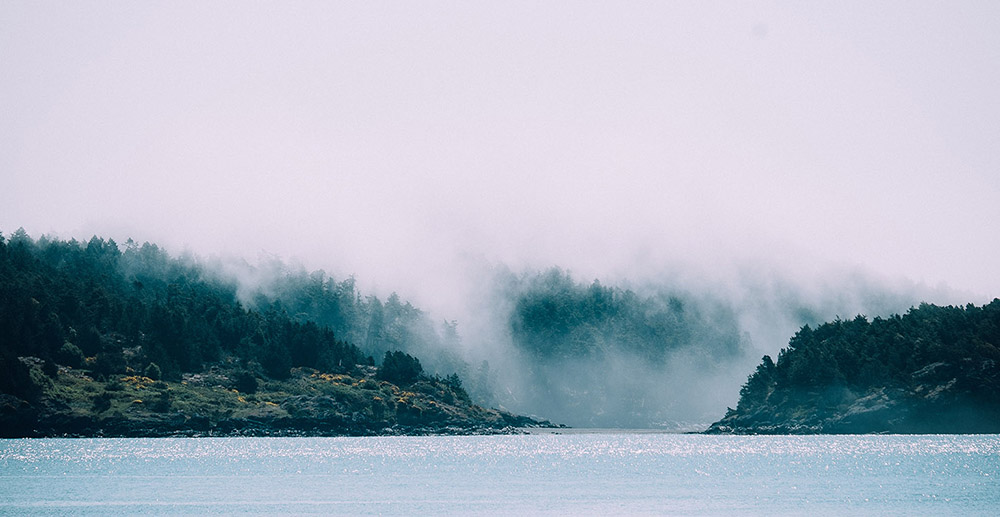
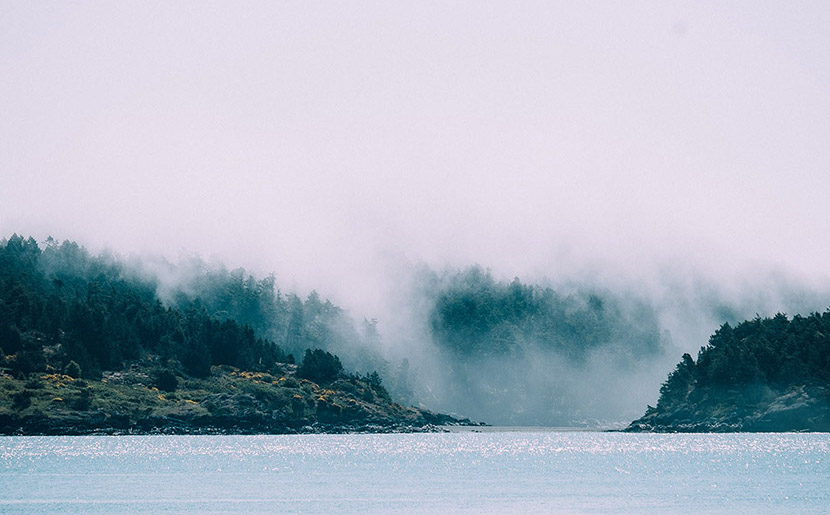
First implementation of events demo

Changed region(s): [[0.0, 0.435, 1.0, 1.0], [0.5422, 0.7456, 0.5723, 0.7767]]

diff --git a/src/views/Components/Sections/SectionCarousel.jsx b/src/views/Components/Sections/SectionCarousel.jsx
@@ -3,18 +3,54 @@ import React from "react";
 import Carousel from "react-slick";
 // @material-ui/core components
 import withStyles from "@material-ui/core/styles/withStyles";
-// @material-ui/icons
-import LocationOn from "@material-ui/icons/LocationOn";
 // core components
 import GridContainer from "components/Grid/GridContainer.jsx";
 import GridItem from "components/Grid/GridItem.jsx";
 import Card from "components/Card/Card.jsx";
+import Event from "components/Events/Event.js";
 import carouselStyle from "assets/jss/material-kit-react/views/componentsSections/carouselStyle.jsx";
 import image1 from "assets/img/bg.jpg";
 import image2 from "assets/img/bg2.jpg";
 import image3 from "assets/img/bg3.jpg";
 
 class SectionCarousel extends React.Component {
+
+  constructor(props) {
+    super(props);
+    this.state = {
+      numberOfEvents: 0
+    };
+  }
+
+  componentDidMount() {
+    fetch('https://www.eventbriteapi.com/v3/users/me/owned_events/?token=7QUBP6MTSUWMGLCOQUG6')
+    .then(results => {
+      return results.json();
+    }).then(data => {
+      this.setState({
+        numberOfEvents: data.pagination.object_count % 4
+      })
+    }).catch(e => {
+
+    })
+  }
+
+  getEvents() {
+
+    let events = [];
+
+    for (let i = 0; i <= this.state.numberOfEvents; i++) {
+      events.push(i);
+    }
+
+    let eventsList = events.map(i => {
+      return <Event index={i}/>
+    })
+
+    return eventsList;
+
+  }
+
   render() {
     const { classes } = this.props;
     const settings = {
@@ -32,45 +68,7 @@ class SectionCarousel extends React.Component {
             <GridItem xs={12} sm={12} md={8} className={classes.marginAuto}>
               <Card carousel>
                 <Carousel {...settings}>
-                  <div>
-                    <img
-                      src={image1}
-                      alt="First slide"
-                      className="slick-image"
-                    />
-                    <div className="slick-caption">
-                      <h4>
-                        <LocationOn className="slick-icons" />Yellowstone
-                        National Park, United States
-                      </h4>
-                    </div>
-                  </div>
-                  <div>
-                    <img
-                      src={image2}
-                      alt="Second slide"
-                      className="slick-image"
-                    />
-                    <div className="slick-caption">
-                      <h4>
-                        <LocationOn className="slick-icons" />Somewhere Beyond,
-                        United States
-                      </h4>
-                    </div>
-                  </div>
-                  <div>
-                    <img
-                      src={image3}
-                      alt="Third slide"
-                      className="slick-image"
-                    />
-                    <div className="slick-caption">
-                      <h4>
-                        <LocationOn className="slick-icons" />Yellowstone
-                        National Park, United States
-                      </h4>
-                    </div>
-                  </div>
+                  {this.getEvents()}
                 </Carousel>
               </Card>
             </GridItem>

diff --git a/src/components/Events/Event.js b/src/components/Events/Event.js
@@ -1,0 +1,58 @@
+import React, { Component } from 'react';
+// @material-ui/icons
+import { People, Code, Mic } from "@material-ui/icons";
+
+// default photo
+import defaultPhoto from "assets/img/bg.jpg";
+
+class Event extends Component {
+  constructor(props) {
+    super(props);
+    this.state = {
+      name: "More Events Coming Soon",
+      location: null,
+      time: null,
+      date: null,
+      pictureLink: defaultPhoto,
+      url: "https://blockolony.eventbrite.com"
+    };
+  }
+
+  componentDidMount() {
+    fetch('https://www.eventbriteapi.com/v3/users/me/owned_events/?token=7QUBP6MTSUWMGLCOQUG6')
+    .then(results => {
+      return results.json();
+    }).then(data => {
+      let event = data.events[this.props.index];
+      this.setState({
+        name: event.name.text,
+        url: event.url,
+        pictureLink: event.logo.original.url
+      })
+    }).catch(e => {
+
+    })
+  }
+
+  render() {
+    return(
+      <div>
+        <img
+          src={this.state.pictureLink}
+          alt="First slide"
+          className="slick-image"
+          height="100%"
+        />
+        <div className="slick-caption">
+          <h3>
+            <a className="event-link" href={this.state.url} target="_blank">
+              {this.state.name}
+            </a>
+          </h3>
+        </div>
+      </div>
+    );
+  }
+}
+
+export default Event

diff --git a/src/views/LandingPage/Sections/EventSection.jsx b/src/views/LandingPage/Sections/EventSection.jsx
@@ -1,0 +1,39 @@
+import React from "react";
+// @material-ui/core components
+import withStyles from "@material-ui/core/styles/withStyles";
+
+// @material-ui/icons
+import People from "@material-ui/icons/People";
+import Code from "@material-ui/icons/Code";
+import Mic from "@material-ui/icons/Mic";
+// core components
+import GridContainer from "components/Grid/GridContainer.jsx";
+import GridItem from "components/Grid/GridItem.jsx";
+import InfoArea from "components/InfoArea/InfoArea.jsx";
+
+import productStyle from "assets/jss/material-kit-react/views/landingPageSections/productStyle.jsx";
+import Carousel from "views/Components/Sections/SectionCarousel.jsx";
+
+class EventSection extends React.Component {
+  render() {
+    const { classes } = this.props;
+    return (
+      <div className={classes.section}>
+        <GridContainer justify="center">
+          <GridItem xs={12} sm={12} md={8}>
+            <h2 className={classes.title}>Upcoming events</h2>
+            <h5 className={classes.description}>
+            Here are some of our upcoming events, to view all of our events head
+            over to our events page.
+            </h5>
+          </GridItem>
+        </GridContainer>
+        <div>
+          <Carousel/>
+        </div>
+      </div>
+    );
+  }
+}
+
+export default withStyles(productStyle)(EventSection);

diff --git a/src/views/LandingPage/LandingPage.jsx b/src/views/LandingPage/LandingPage.jsx
@@ -20,7 +20,7 @@ import landingPageStyle from "assets/jss/material-kit-react/views/landingPage.js
 
 // Sections for this page
 import ProductSection from "./Sections/ProductSection.jsx";
-import TeamSection from "./Sections/TeamSection.jsx";
+import EventSection from "./Sections/EventSection.jsx";
 import WorkSection from "./Sections/WorkSection.jsx";
 
 const dashboardRoutes = [];
@@ -68,6 +68,7 @@ class LandingPage extends React.Component {
         <div className={classNames(classes.main, classes.mainRaised)}>
           <div className={classes.container}>
             <ProductSection />
+            <EventSection />
             <WorkSection />
           </div>
         </div>

diff --git a/src/assets/css/blockolony.css b/src/assets/css/blockolony.css
@@ -8,6 +8,11 @@ h1 {
     color: #FFFFFF !important;
 }
 
+footer a:hover, a:focus {
+    color: #354A9F !important;
+    text-decoration: none;
+}
+
 .logo {
     width: 60px;
     margin-bottom: -2px;
@@ -68,4 +73,13 @@ h1 {
 
 .MuiSvgIcon-root-155 {
     margin-left: 10px !important;
+}
+
+.event-link {
+    color: #FFFFFF !important;
+}
+
+.event-link:hover, .event-link:focus {
+    color: #FFFFFF !important;
+    text-decoration: underline !important;
 }

diff --git a/src/assets/scss/material-kit-react.css b/src/assets/scss/material-kit-react.css
@@ -750,7 +750,11 @@ td.rdtYear:hover {
     top: 5px; }
   .slick-slider .slick-image {
     width: 100% !important;
-    display: inline-flex !important; }
+    display: inline-flex !important;
+    -webkit-filter: brightness(80%) !important;
+    -moz-filter: brightness(80%) !important;
+    -o-filter: brightness(80%) !important;
+    filter: brightness(80%) !important; }
 
 .slick-list {
   position: relative;
